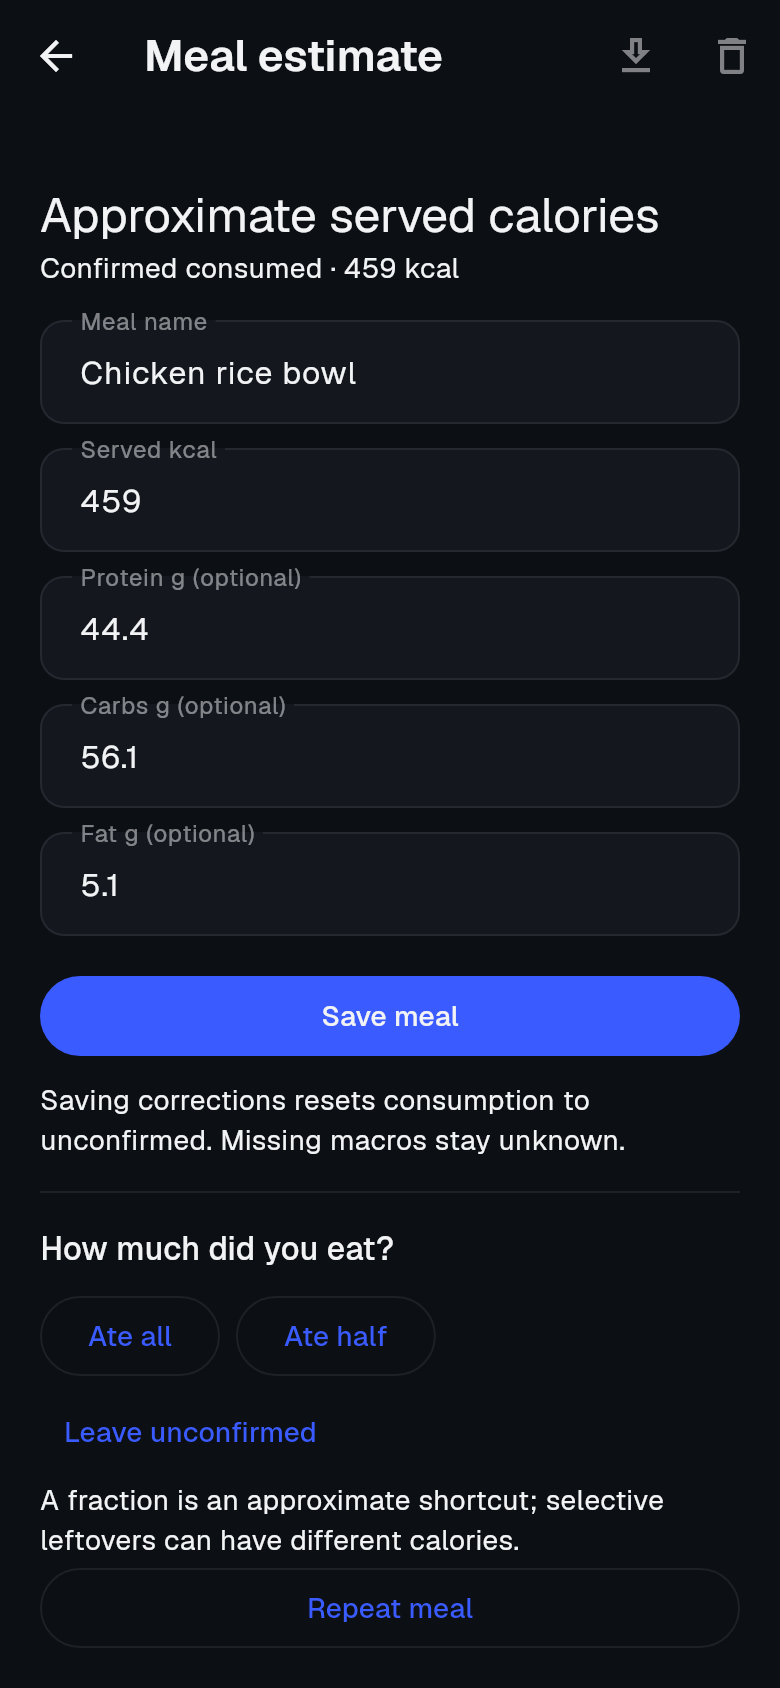
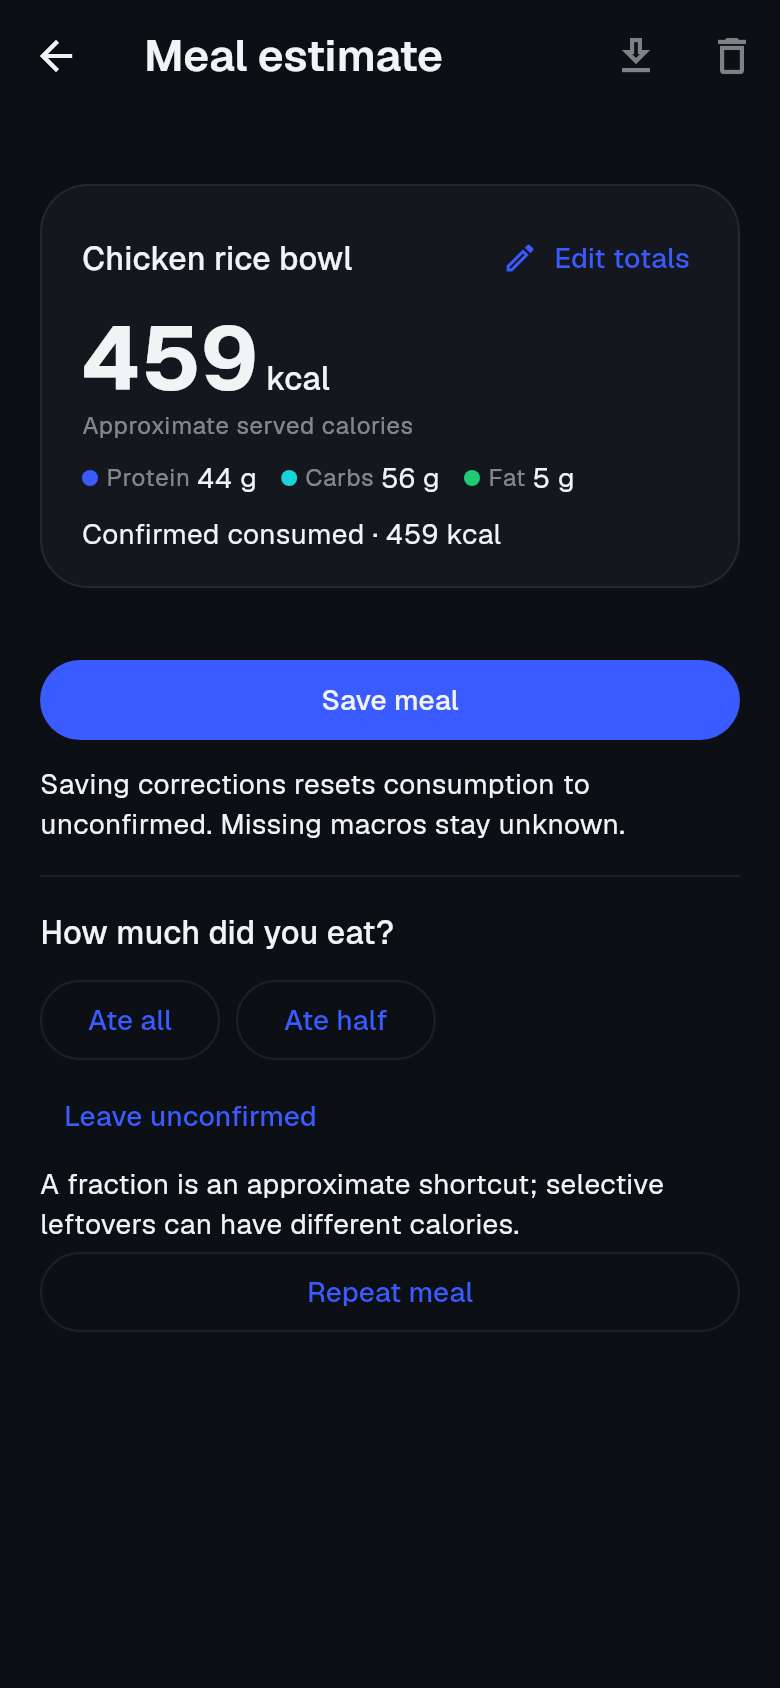
Record Ravlo name and summary card status in the Tier1 handover because the owner decided both

diff --git a/docs/UI_REVIEW_AND_HANDOVER_2026-11-14.md b/docs/UI_REVIEW_AND_HANDOVER_2026-11-14.md
@@ -34,7 +34,7 @@ dart format lib/features/tier1 test/tier1                      # pinned Dart 3.1
 ```
 Open the PNGs with your image reader, or send them to Gemini (`ask-ai`, `@/abs/path.png`). To add a state, add a
 `testWidgets` block to `tool/ui/tier1_shots_test.dart`. The camera area renders empty there (fake camera); every
-other pixel is the real widget tree with the real fonts. Shots from 2026-11-15 (worktree `f7ecd0c`, after the fixes) are in
+other pixel is the real widget tree with the real fonts. Shots from 2026-11-15 (worktree `bff13cb`, after the fixes) are in
 `docs/live-app-screenshots/tier1-2026-11-15/`.
 
 **Verdict:** a working pilot with default Material forms. None of the product's identity is on screen: no macro
@@ -42,15 +42,14 @@ colors, no daily total, no ring, and the app bar says "AppName".
 
 **Status of the list below (update after every fix):** 2, 3, 4, 7 DONE in worktree `356aa55` + `80afa21` (Gemini review asked for delete to stay visible at every revision; applied. Export alone waits for the first save.) (plus the cause of 7:
 the dark theme's seeded `onPrimary` was dark navy; both schemes now state it in `lib/core/theme/app_theme.dart`).
-1 is WITHDRAWN: `AppName` is an intentional placeholder (comment in `app_constants.dart`); the owner must name the
-app. 5 and 8 DONE in `48d9424` (day headers with served totals, time and macro dots per row, a today line on home; test added). 6 (plain wording) is NOT DONE: tests assert the current strings, and the served/consumed vocabulary looks deliberate, so ask the owner before rewording. Lesson from 5: never call `toLocal()` on a clock value in Tier1; test clocks hand out `TZDateTime` and it throws without the timezone database (use `_localTime`). Grok's free limit ran
+1 is DONE in `6ac0c58`: the owner named the app **Ravlo** on 2026-11-15 (display name only: constant, Android label, iOS bundle names; package ids and the repo name stay `calorix`). 5 and 8 DONE in `48d9424` (day headers with served totals, time and macro dots per row, a today line on home; test added). 6 (plain wording) is NOT DONE: tests assert the current strings, and the served/consumed vocabulary looks deliberate, so ask the owner before rewording. Lesson from 5: never call `toLocal()` on a clock value in Tier1; test clocks hand out `TZDateTime` and it throws without the timezone database (use `_localTime`). Grok's free limit ran
 out on its first task on 2026-11-15, so the main host made these edits directly, as the owner allowed.
 
 **Photo estimate screen (the core result, rendered as `06`–`08`):** DONE in `f7ecd0c`: recognized foods are cards,
 the open question is an amber block. Still weak there, in order: (a) no kcal per food on its card; (b) the raw
 record id (`usda:169756`) is shown to the user; (c) "Unverified model nutrient estimate" is internal wording;
 (d) the totals at the top are five form fields, not a summary (kcal large, macros with their colour dots) with
-an Edit button. (d) is the next big step and wants the owner's answer on design direction first.
+an Edit button. (d) is DONE in `bff13cb` (owner said yes): a summary card (name, large kcal, labelled macro dots, status) with `Edit totals` revealing the form; manual entry with no estimate still opens on the form. Tests that type into the totals tap `Edit totals` first.
 
 **Defects, most visible first** (`lib/features/tier1/tier1_app.dart` unless noted):
 1. [App bar title] shows the literal `AppName` (`lib/core/constants/app_constants.dart:3`). Set it to `Calorix`.
